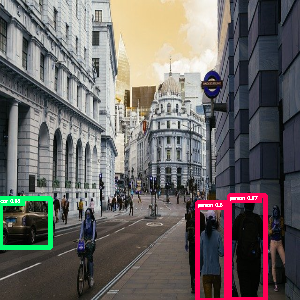
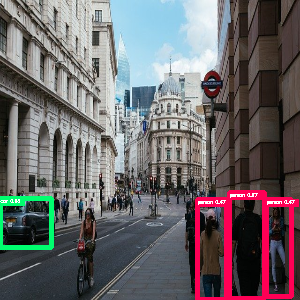
Fix color space

diff --git a/object_detection/mobilenet_ssd/mobilenet_ssd.py b/object_detection/mobilenet_ssd/mobilenet_ssd.py
@@ -102,7 +102,7 @@ def recognize_from_image():
             normalize_type='None',
         )
         if org_img.shape[2] == 3:
-            org_img = cv2.cvtColor(org_img, cv2.COLOR_BGR2BGRA)
+            org_img = cv2.cvtColor(org_img, cv2.COLOR_RGB2BGRA)
 
         # inference
         logger.info('Start inference...')
